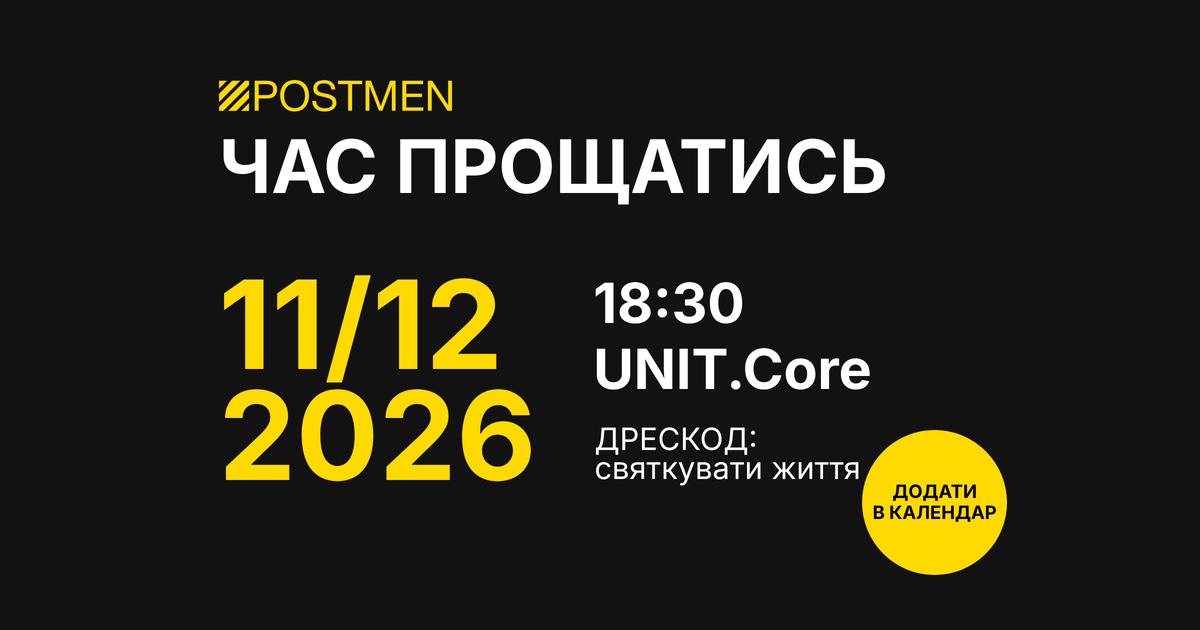
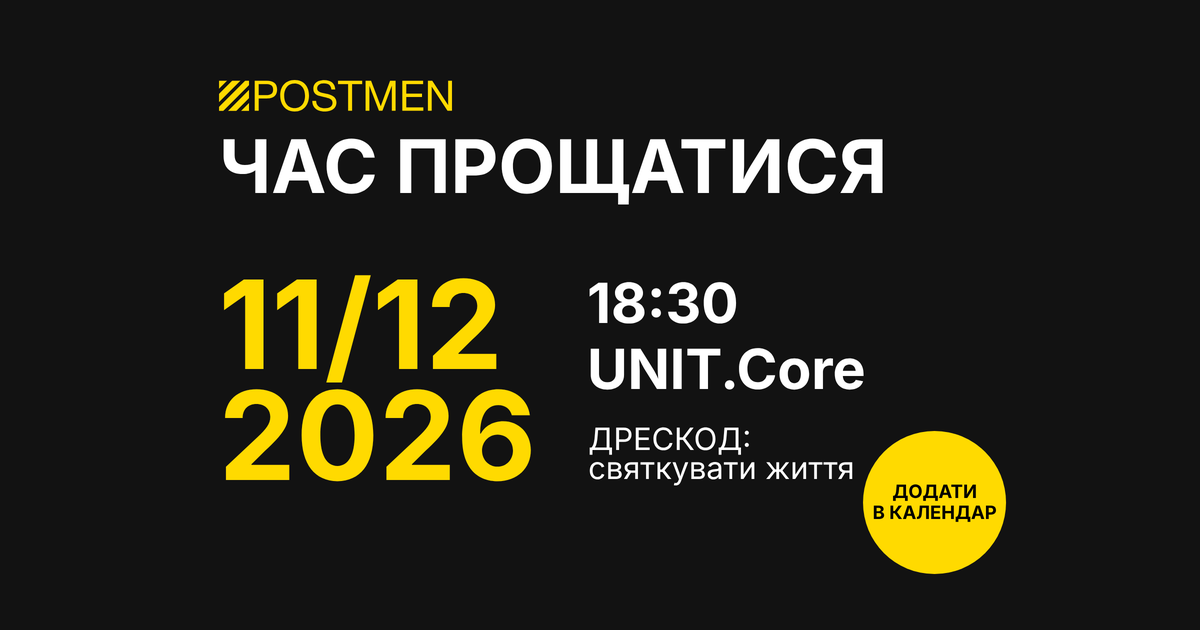
Add files via upload

diff --git a/script.js b/script.js
@@ -1,7 +1,7 @@
 (() => {
   // ================== Дані події ==================
   const EVENT = {
-    title: "Час прощатись",
+    title: "Postmen. Час прощатися",
     // 11 грудня 2026, 18:30 за Києвом (UTC+2) → 16:30 UTC
     startUTC: "20261211T163000Z",
     // Кінець — 21:00 за Києвом. Зміни тут і в event.ics, якщо треба.
@@ -26,8 +26,8 @@
   // ================== Геометрія макета ==================
   // Координати з Figma (в одиницях макета)
   const LAYOUT = {
-    desktop: { W: 1440, spot: [720, 455], r: 168, titleC: [720, 512], titleHalf: [402, 132] },
-    mobile: { W: 390, spot: [194.5, 363.5], r: 66.5, titleC: [195, 386], titleHalf: [161, 53] },
+    desktop: { W: 1440, spot: [236, 512], r: 129, titleC: [648, 512], titleHalf: [548, 66] },
+    mobile: { W: 390, spot: [194.5, 363.5], r: 66.5, titleC: [195, 386], titleHalf: [162, 53] },
   };
   function geo() {
     const L = isMobileLayout() ? LAYOUT.mobile : LAYOUT.desktop;
@@ -106,29 +106,18 @@
   }
   const wait = (ms) => new Promise((r) => setTimeout(r, ms));
 
-  // FLIP: заголовок їде з центру на своє місце з макета
+  // FLIP: заголовок плавно піднімається з центру на своє місце з макета
   function flipTitle(duration) {
-    const words = [...title.querySelectorAll(".word")];
-    const before = words.map((w) => w.getBoundingClientRect());
+    const before = title.getBoundingClientRect();
     body.classList.remove("is-intro");
-    const after = words.map((w) => w.getBoundingClientRect());
+    const after = title.getBoundingClientRect();
     if (reduceMotion || !duration) return Promise.resolve();
-    // Спершу слова розходяться по горизонталі, потім піднімаються — так вони не перетинаються
-    const sameColumn = words.every((w, i) => Math.abs(before[i].left - after[i].left) < 1);
-    const lag = sameColumn ? [0.55, 0.55] : [0.6, 0.88];
-    const anims = words.map((w, i) => {
-      const dx = before[i].left - after[i].left;
-      const dy = before[i].top - after[i].top;
-      return w.animate(
-        [
-          { transform: `translate(${dx}px, ${dy}px)` },
-          { transform: `translate(0px, ${dy * lag[i]}px)`, offset: 0.45 },
-          { transform: "translate(0px, 0px)" },
-        ],
-        { duration, easing: "cubic-bezier(.65, 0, .25, 1)", fill: "backwards" }
-      ).finished;
-    });
-    return Promise.all(anims);
+    const dx = before.left - after.left;
+    const dy = before.top - after.top;
+    return title.animate(
+      [{ transform: `translate(${dx}px, ${dy}px)` }, { transform: "translate(0px, 0px)" }],
+      { duration, easing: "cubic-bezier(.45, 0, .15, 1)", fill: "backwards" }
+    ).finished;
   }
 
   function enableInfo() {
@@ -164,12 +153,12 @@
       cur.y = fromY + (toY - fromY) * p;
     });
 
-    // 2) Заголовок переїжджає на своє місце
-    await wait(550);
-    const move = flipTitle(1100);
+    // 2) Заголовок плавно переїжджає на своє місце
+    await wait(500);
+    const move = flipTitle(1700);
 
-    // 3) Решта інфи — з прозорості й блюру
-    await wait(750);
+    // 3) Решта інфи — з прозорості й блюру, коли заголовок майже на місці
+    await wait(1150);
     enableInfo();
 
     await Promise.all([light, move]);

diff --git a/styles.css b/styles.css
@@ -88,26 +88,18 @@ html, body {
 }
 .title .word { display: inline-block; }
 
-/* Інтро (десктоп): по центру, у два рядки — як у макеті «Desktop - intro» */
-.is-intro .title,
-.title.pos-intro {
-  left: 0;
-  width: 100%;
-  top: calc(380 * var(--u));
-  text-align: center;
+/* Інтро (десктоп): той самий рядок, але по центру екрана по вертикалі */
+.is-intro .title {
+  top: calc(446 * var(--u));
   filter: blur(calc(1.6 * var(--u)));
 }
-.is-intro .title .word,
-.title.pos-intro .word { display: block; }
-.is-intro .title .gap,
-.title.pos-intro .gap { display: none; }
 
 /* Фінал (десктоп): в один рядок, ліворуч */
 .title {
   left: calc(100 * var(--u));
   top: calc(204 * var(--u));
   text-align: left;
-  transition: filter .9s ease;
+  transition: filter 1.4s ease;
 }
 
 /* ============ Підказка ============ */
@@ -212,7 +204,7 @@ body.is-open .reveal { opacity: 1; filter: blur(0); }
 
 .time, .place {
   position: absolute;
-  left: calc(709 * var(--u));
+  left: calc(699 * var(--u));
   font-weight: 700;
   font-size: calc(90 * var(--u));
   line-height: .97;
@@ -223,7 +215,7 @@ body.is-open .reveal { opacity: 1; filter: blur(0); }
 
 .dress {
   position: absolute;
-  left: calc(711 * var(--u));
+  left: calc(701 * var(--u));
   top: calc(690 * var(--u));
   font-weight: 400;
   font-size: calc(50 * var(--u));
@@ -237,10 +229,10 @@ body.is-open .reveal { opacity: 1; filter: blur(0); }
 /* Кнопка-коло */
 .cal {
   position: absolute;
-  left: calc(1146 * var(--u));
-  top: calc(699 * var(--u));
-  width: calc(236 * var(--u));
-  height: calc(236 * var(--u));
+  left: calc(1148 * var(--u));
+  top: calc(701 * var(--u));
+  width: calc(232 * var(--u));
+  height: calc(232 * var(--u));
   --d: .6s;
 }
 .cal-btn {
@@ -315,8 +307,7 @@ body.is-open .reveal { opacity: 1; filter: blur(0); }
   }
   .title .word { display: block; }
   .title .gap { display: none; }
-  .is-intro .title,
-  .title.pos-intro { top: calc(333 * var(--u)); filter: blur(calc(1.2 * var(--u))); }
+  .is-intro .title { top: calc(333 * var(--u)); filter: blur(calc(1.2 * var(--u))); }
 
   .dot {
     top: calc(666 * var(--u));
@@ -356,10 +347,10 @@ body.is-open .reveal { opacity: 1; filter: blur(0); }
   .dress span { display: inline; }
 
   .cal {
-    left: calc(87 * var(--u));
-    top: calc(610 * var(--u));
-    width: calc(216 * var(--u));
-    height: calc(216 * var(--u));
+    left: calc(98 * var(--u));
+    top: calc(621 * var(--u));
+    width: calc(194 * var(--u));
+    height: calc(194 * var(--u));
   }
   .cal-btn { font-size: calc(24 * var(--u)); }
   .cal-menu {

diff --git a/index.html b/index.html
@@ -3,14 +3,14 @@
 <head>
   <meta charset="utf-8" />
   <meta name="viewport" content="width=device-width, initial-scale=1, viewport-fit=cover" />
-  <title>Час прощатись — POSTMEN</title>
+  <title>Час прощатися — POSTMEN</title>
   <meta name="description" content="11/12/2026 · 18:30 · UNIT.Core. Дрескод: святкувати життя." />
   <meta name="theme-color" content="#121212" />
 
   <!-- Шерінг-картинка (Telegram, Facebook, Slack, iMessage…) -->
   <meta property="og:type" content="website" />
   <meta property="og:locale" content="uk_UA" />
-  <meta property="og:title" content="Час прощатись" />
+  <meta property="og:title" content="Час прощатися" />
   <meta property="og:description" content="11/12/2026 · 18:30 · UNIT.Core. Дрескод: святкувати життя." />
   <meta property="og:image" content="%SITE_URL%/og.png" />
   <meta property="og:image:width" content="1200" />
@@ -32,7 +32,7 @@
     <div class="layer title-layer" id="titleLayer">
       <div class="stage">
         <h1 class="title" id="title">
-          <span class="word">Час</span><span class="gap"> </span><span class="word">прощатись</span>
+          <span class="word">Час</span><span class="gap"> </span><span class="word">прощатися</span>
         </h1>
       </div>
     </div>

diff --git a/README.md b/README.md
@@ -1,4 +1,4 @@
-# Час прощатись — сайт-запрошення
+# Час прощатися — сайт-запрошення
 
 Статичний сайт (HTML + CSS + JS, без фреймворків).
 
